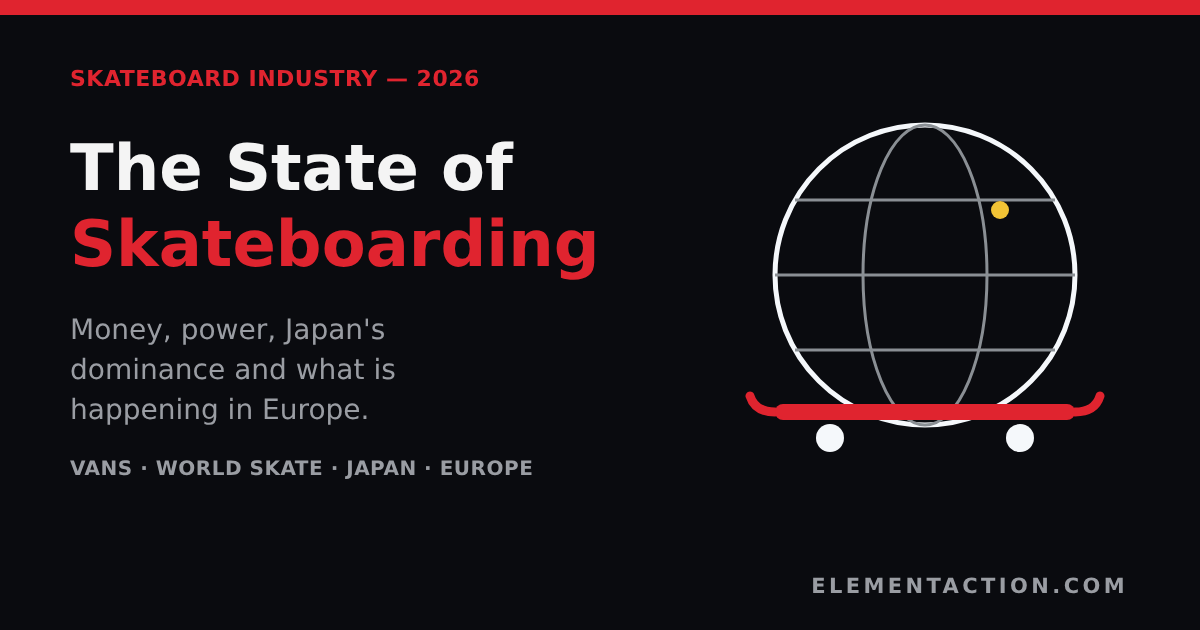
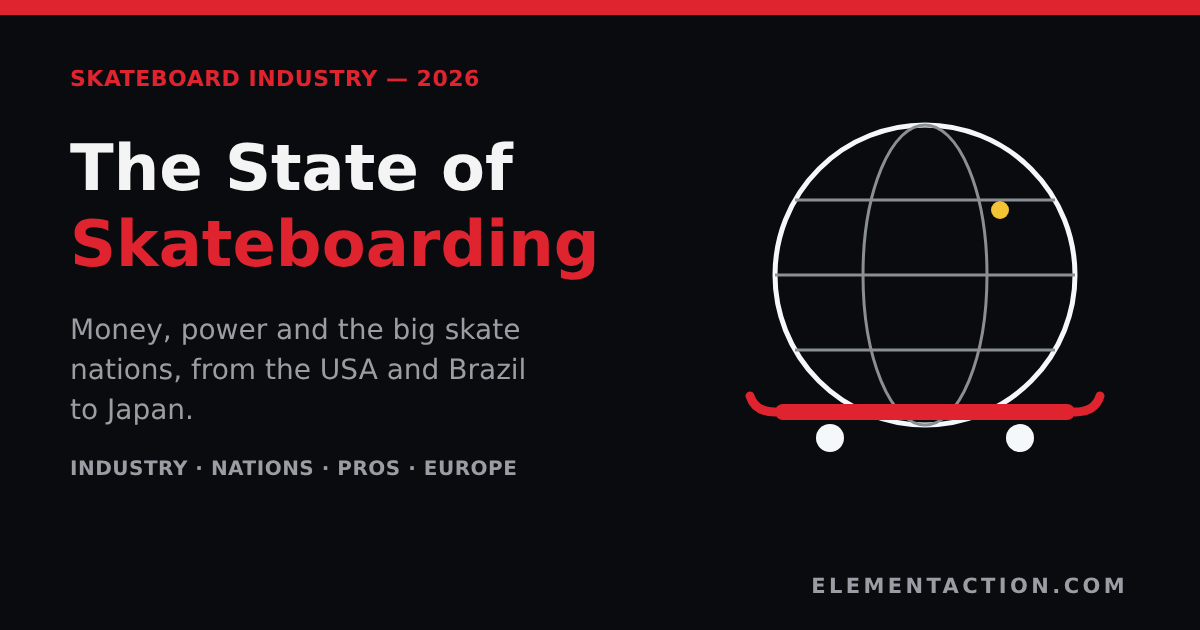
state of skateboarding v2

diff --git a/scripts/staging/make_og.py b/scripts/staging/make_og.py
@@ -116,8 +116,8 @@ ART['boardart'] = _re.sub(r'<text[^>]*>[^<]*</text>', '', ART['board'])
 DATA = [
     dict(slug='state-of-skateboarding-2026', acc='#e0242f', art='globedeck',
          kicker='SKATEBOARD INDUSTRY — 2026', t1='The State of', t2='Skateboarding',
-         lead='Money, power, Japan\'s dominance and what is happening in Europe.',
-         tags='VANS · WORLD SKATE · JAPAN · EUROPE'),
+         lead='Money, power and the big skate nations, from the USA and Brazil to Japan.',
+         tags='INDUSTRY · NATIONS · PROS · EUROPE'),
     dict(slug='surf-spots-portugal-guide', acc='#3b8eea', art='portugal',
          kicker='SURF GUIDE — PORTUGAL', t1='Surfing', t2='Portugal',
          lead='Six regions, seven maps: from the Minho to Ericeira, Peniche and Sagres.',

diff --git a/content/articles/skateboard/en/state-of-skateboarding-2026.md b/content/articles/skateboard/en/state-of-skateboarding-2026.md
@@ -4,7 +4,7 @@ slug: "state-of-skateboarding-2026"
 category: "reportage"
 lang: "en"
 date: "2026-11-04"
-excerpt: "Vans has lost half its revenue, skate shops are closing, and Japanese teenagers win almost everything. Yet more Americans skate than a few years ago. A fact-based look at the skateboard industry, who runs the sport, how pros make a living, why Asia dominates, and what is happening in Europe."
+excerpt: "Vans has lost half its revenue, skate shops are closing, and Japanese teenagers win almost everything. Yet more Americans skate than a few years ago. A fact-based look at the skateboard industry, who runs the sport, how pros make a living, the big skate nations from the USA and Brazil to Japan and Australia, and what is happening in Europe."
 metaDescription: "Skateboarding in 2026: market size, the biggest companies, Vans' decline, tariffs and shop closures, World Skate and the Olympics, how pro skaters earn money, Japan's dominance and the state of skateboarding in Europe."
 ogImage: "/images/articles/state-of-skateboarding-2026/og-image.png"
 tags: ["skateboard industry", "market", "olympics", "world skate", "japan", "europe", "pro skateboarding", "vans"]
@@ -23,6 +23,7 @@ This article looks at the whole picture: how big the industry is, which companie
 - **Participation** in the US has grown: about **9.9 million** Americans skated in 2025. But fewer skaters enter contests, and many shops are struggling.
 - **Japan** dominates Olympic and world contests. At the first LA28 qualifier in Rome in June 2026, Japanese skaters took **7 of 12** podium places.
 - **World Skate**, a roller sports federation based in Switzerland, governs Olympic skateboarding. The culture itself is still shaped by brands, media and skaters.
+- **The USA** is still the centre of the industry and culture, **Brazil** is the second big skate nation, and **Australia** dominates Olympic park skating. But the USA has not won an Olympic skateboarding gold.
 - **A pro career is possible**, but only a small group earns a good living from skateboarding alone.
 
 ## How big is the skateboard industry?
@@ -115,19 +116,72 @@ The road to the Olympics was not smooth. When skateboarding was added for Tokyo 
 
 **LA 2028.** Skateboarding is on the programme again, with park and street for men and women, and **22 athletes per event**. Qualification started in June 2026 and runs until June 2028, with a maximum of three skaters per country in each event.
 
-## Which countries dominate?
+## Country by country: the big skateboard nations
+
+Skateboarding has three kinds of power: **industry** (where the companies and money are), **culture** (where the videos, magazines and styles come from) and **contests** (who wins medals). Very few countries have all three.
 
 ![Bar chart: Olympic skateboarding medals at Tokyo 2020 and Paris 2024 combined: Japan 9 (5 gold), Brazil 5, USA 5, Australia 3 (all gold), Great Britain 2](./chart-olympic-medals.png)
 
-- **Japan** is the clear leader in contests: 9 Olympic medals in two Games, including 5 golds, and both street world titles at the 2026 World Skate Games in Asunción.
-- **The USA** is still the centre of the industry, the media and the big brands, and it has the most skaters. But it did not win a single Olympic gold in skateboarding in Tokyo or Paris.
-- **Brazil** has a huge skate scene, Olympic medals, and the SLS Super Crown final, held in São Paulo.
-- **Australia** has won three Olympic park golds: Keegan Palmer twice and Arisa Trew in Paris.
-- **Europe** has some top skaters, such as Sky Brown (Great Britain) and Egoitz Bijueska (Spain), but no country there has dominated.
+| Nation | Industry | Culture | Contests | In one line |
+|---|---|---|---|---|
+| USA | ●●● | ●●● | ●● | Still the centre of the business and the culture, but no Olympic gold yet |
+| Japan | ● | ●● | ●●● | The contest superpower |
+| Brazil | ●● | ●●● | ●●● | Huge skate nation and home of the SLS final |
+| Australia | ● | ●● | ●●● | Olympic park specialists |
+| China | ●●● (manufacturing) | ● | ●● | Makes much of the hardware, and is building a team |
+| Canada | ●● (wood) | ●● | ● | The maple behind the decks |
+| Mexico | ●● (factories) | ●● | ● | Woodshops and a big street scene |
+| South Korea, Chinese Taipei | ● | ● | ●● | New contest nations |
+| Europe | ●● | ●●● | ●● | Strong culture, no Olympic gold |
+
+*The ratings are our own summary of the facts below, not an official ranking.*
+
+### North America
+
+**USA.** The US is still the heart of skateboarding. Most of the big brands, distributors, magazines and video productions are American, and about **9.9 million** Americans skated in 2025. The big contests are there too: Street League, the X Games and Tampa Am. But in contests, the US has fallen behind: in Tokyo and Paris it won **five of 24 Olympic medals and no gold**, and **no American woman** has yet won an Olympic skateboarding medal. In a World Skate column, Niall Neeson writes that the USA relies on its "embarrassment of professional skateboarding riches", while Brazil and Japan have more organised national selection. At **LA 2028**, in California where the sport took off, the US will be skating at home.
+
+**Canada.** Canada's biggest role is in the wood. Most decks are made from **hard rock maple**, which grows slowly in the cold winters around the Great Lakes, in Canada and the northern US. Woodshops such as **Control** in Quebec press decks for brands including Poetic Collective and Studio. In contests, Canada sent four skaters to Paris, including 14-year-old **Fay De Fazio Ebert**, who won women's park gold at the 2023 Pan American Games. She has said Canada lacks high-level training facilities.
+
+**Mexico.** Mexico is a manufacturing country for skateboarding. The large woodshop **BBS** presses decks there for many well-known American brands, which is why the 2025 US tariffs on Mexico worried the industry. Mexico City has a big street scene. The government began building skateparks in the 1980s, and brands have followed: Nike SB built an Aztec-inspired park in the city in 2014, and Vans opened a House of Vans there in 2020. In contests, Mexico is still small. According to The Boardr, **88%** of Mexican contest skaters had stopped competing, one of the highest rates.
+
+### South America
+
+**Brazil.** Brazil is the second great skate nation of the Americas. A 2023 survey by Ibope Repucom estimated that **8.5 million** Brazilians skate and more than 47 million follow the sport. Brazil has won five Olympic medals: Rayssa Leal (silver in Tokyo at 13, bronze in Paris), Kelvin Hoefler, Pedro Barros and Augusto Akio. The **SLS Super Crown** final is held in São Paulo, and at the first Pan American Games skateboarding contests in Santiago in 2023, Brazil won both street golds (Rayssa Leal and Lucas Rabelo).
+
+**The rest of South America.** Peru's **Angelo Caro** finished fifth in Tokyo, took silver at the 2023 Pan American Games, and was second at the 2025 world street championship in São Paulo, held in March 2026. Colombia's Jhancarlos González won bronze at the Pan Am Games. In October 2026, **Paraguay** hosted the World Skate Games in Asunción. South America is producing more contest skaters every year, often from public skateparks rather than private training centres.
+
+### Asia
+
+**Japan** is the strongest contest nation in the world (see the next section). At the **2026 Asian Games** in Aichi-Nagoya, Japan won **7 of 12** skateboarding medals.
+
+**China** makes a large share of the world's skate hardware and has built a national team from scratch since 2017. At the 2026 Asian Games, **Zhu Yuanling** won women's street gold and Cui Chenxi took bronze.
+
+**South Korea** formed its national team only in **January 2022**, with six skaters all under 16, and the Korea Times reported then that no park in the country was equipped for professional training. Four years later, **Kang Jun-i**, 17, won Korea's first Asian Games skateboarding gold in men's street and took silver at the World Championship in Asunción.
+
+**Chinese Taipei** won two park silvers at the 2026 Asian Games.
+
+**India** is at an early stage. It has new skateparks such as Janwaar Castle, a rural park where children skate for free on the condition that they go to school, and a 44,000-square-foot park in Chandigarh opened in 2023. No Indian skater has yet qualified for the Olympics.
+
+### Oceania
+
+**Australia** is the world's best park nation at the Olympics. **Keegan Palmer** won park gold in both Tokyo and Paris, and **Arisa Trew** won women's park gold in Paris at 14, becoming Australia's youngest Olympic gold medallist. Street skater **Chloe Covell** won the first LA28 qualifier in Rome in June 2026.
+
+### Europe
+
+Europe has a strong culture and many world-class skaters, but it does not have Japan's depth. Highlights:
+- **France:** Aurélien Giraud was street world champion in 2023, and Paris hosted the Olympic skateboarding at Place de la Concorde in 2024.
+- **Great Britain:** Sky Brown has won Olympic bronze in both Tokyo and Paris.
+- **Spain:** Egoitz Bijueska became park world champion in 2026 at 15. The Basque Country is also home to the woodshop HLC.
+- **Portugal:** Gustavo Ribeiro won the SLS Super Crown in 2022, the first Portuguese skater to do so.
+- **Sweden:** Malmö is a model skateboarding city (see the Europe section below).
+
+### Africa
+
+**South Africa** is Africa's leading contest nation in skateboarding and sent skaters to both Tokyo and Paris. Boipelo Awuah, from Kimberley, qualified for women's street in Paris after a pelvic fracture kept her out of Tokyo. Local skaters report more girls at skateparks, but also limited resources and poorly organised women's contests. The charity **Skateistan**, founded in Kabul in 2007, runs skate schools in South Africa, Cambodia and Afghanistan for more than 6,000 children a week, 54% of them girls. A film about its Kabul school won an Oscar.
 
 ## Why does Asia dominate?
 
-Above all, it is **Japan** that wins, with **China** and **South Korea** catching up. In the street world final in Asunción, South Korea's Kang Juni took silver. In Rome in June 2026, China's Cui Chenxi took bronze in women's street. These are the explanations given in the sources:
+Above all, it is **Japan** that wins, with **China**, **South Korea** and **Chinese Taipei** catching up. In the street world final in Asunción, South Korea's Kang Juni took silver. In Rome in June 2026, China's Cui Chenxi took bronze in women's street. These are the explanations given in the sources:
 
 1. **Perfect timing.** Japan's national coach, Daisuke Hayakawa, has said that the growth of Japanese skateboarding and the Olympics "crossed paths at just the right time". He told Olympics.com that from around 2010, social media and YouTube let Japanese kids see world-class skating and aim to be number one in the world, not just in Japan.
 2. **A contest pathway.** Japanese skaters were sent to international contests early. In 2018, the big American amateur contest **Tampa Am** held a qualifier in Japan, which Sora Shirai won. He went on to become world number one.
@@ -208,4 +262,21 @@ Based on the trends above, these are the most likely directions. They are our as
 - [Boardworld: CPH Open, the final chapter (2018)](https://boardworld.com.au/blogs/news/cph-open-the-final-chapter)
 - [DOSE: This was CPH Open 2023](https://doseskateboarding.com/articles/cph-open-2023)
 - [SGI News: New Boardriders licensees after Liberated bankruptcy (2025)](https://sginews.com/Content/after-liberated-bankruptcy-abg-names-new-boardriders-licensees.aspx)
+- [World Skate: Currents, Team USA's date with destiny at LA28](https://www.skateboarding.worldskate.org/news/1861-currents-team-usa-s-date-with-destiny-at-la28.html)
+- [World Skate: Asian Games 2026 park and street results](https://www.skateboarding.worldskate.org/news/1871-asian-games-2026-park-and-street-results.html)
+- [Korea Times: South Korea wins gold in men's street at the Asian Games (2026)](https://www.koreatimes.co.kr/sports/20260927/asian-games-s-korea-wins-gold-in-mens-street-skateboarding-at-asian-games)
+- [Korea Times: Korea's skateboarding scene needs more (2022)](https://www.koreatimes.co.kr/southkorea/globalcommunity/20220823/koreas-skateboarding-scene-needs-more)
+- [World Skate: Pan American Games 2023 results](https://www.skateboarding.worldskate.org/news/1635-pan-american-games-2023-street-and-park-results.html)
+- [Máquina do Esporte: Ibope Repucom survey on skateboarding in Brazil (2023)](https://maquinadoesporte.com.br/skate/ibope-repucom-brasil-ganhou-20-milhoes-de-fas-de-skate-desde-2019)
+- [Canadian Olympic Committee: Team Canada skateboarders for Paris 2024](https://develop.olympic.ca/2024/06/26/four-team-canada-skateboarders-will-take-to-the-park-and-streets-of-paris-2024/)
+- [Ripped Laces: What skateboard decks are made of](https://rippedlaces.com/skateboarding/what-are-skateboard-deck-made-of/)
+- [Latin Post: Mexico City's skateboarding scene grows (2022)](https://www.latinpost.com/articles/153630/20220117/skateboarding-scene-in-mexico-city-grows-as-parks-for-the-sport-emerge.htm)
+- [Wikipedia: Ángelo Caro](https://en.wikipedia.org/wiki/%C3%81ngelo_Caro)
+- [Ben Waterworth: Australia's most successful Olympic skate campaign (2024)](https://www.benwaterworth.com/post/sport-wrap-australia-skates-its-way-to-most-successful-olympic-campaign)
+- [Wikipedia: Aurélien Giraud](https://en.wikipedia.org/wiki/Aur%C3%A9lien_Giraud)
+- [Olympics.com: Gustavo Ribeiro](https://olympics.com/en/news/street-skateboard-gustavo-ribeiro-self-belief-dreams)
+- [Wikipedia: Skateboarding in India](https://en.wikipedia.org/wiki/Skateboarding_in_India)
+- [ESPN Africa: Boipelo Awuah (2024)](https://africa.espn.com/espn/story/_/id/40636753/south-africa-skater-boipelo-awuah-olympic-debut-looms-pelvic-fracture-tokyo)
+- [TimesLIVE: South African female skateboarders carving out space (2026)](https://www.timeslive.co.za/news/south-africa/2026-08-11-south-african-female-skateboarders-are-carving-out-space-in-a-growing-sport/)
+- [Wikipedia: Skateistan](https://en.wikipedia.org/wiki/Skateistan)
 - Our own reports: [Park World Championship, Asunción 2026](/en/skateboard/articles/park-world-championship-asuncion-2026/) and [Street World Championship, Asunción 2026](/en/skateboard/articles/street-world-championship-asuncion-2026/)
